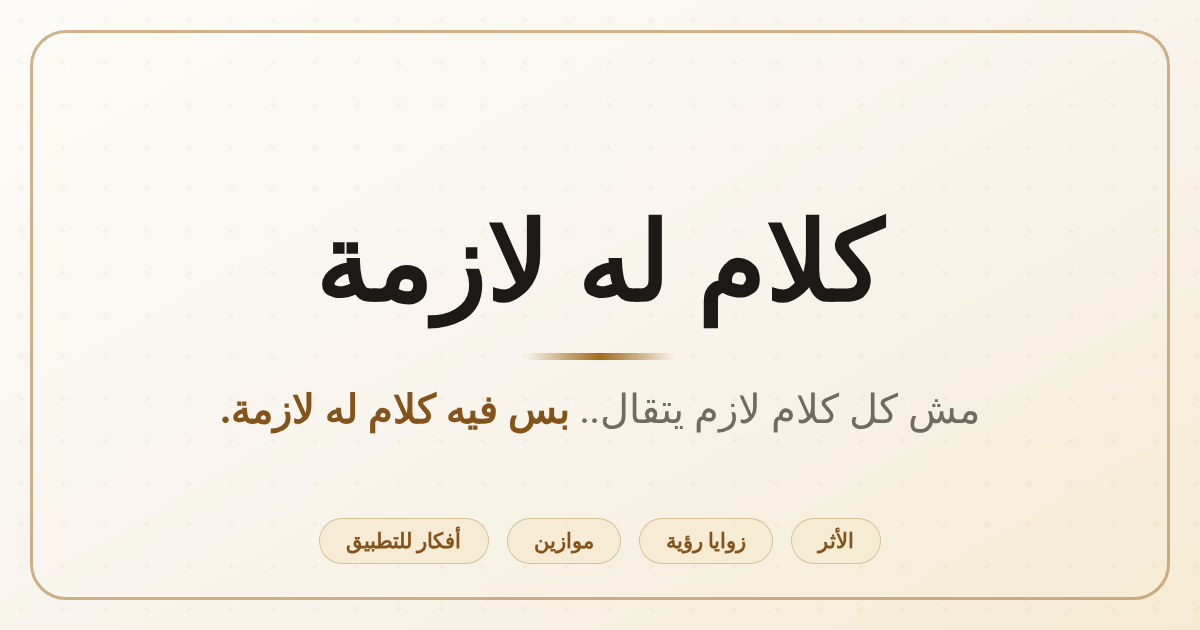
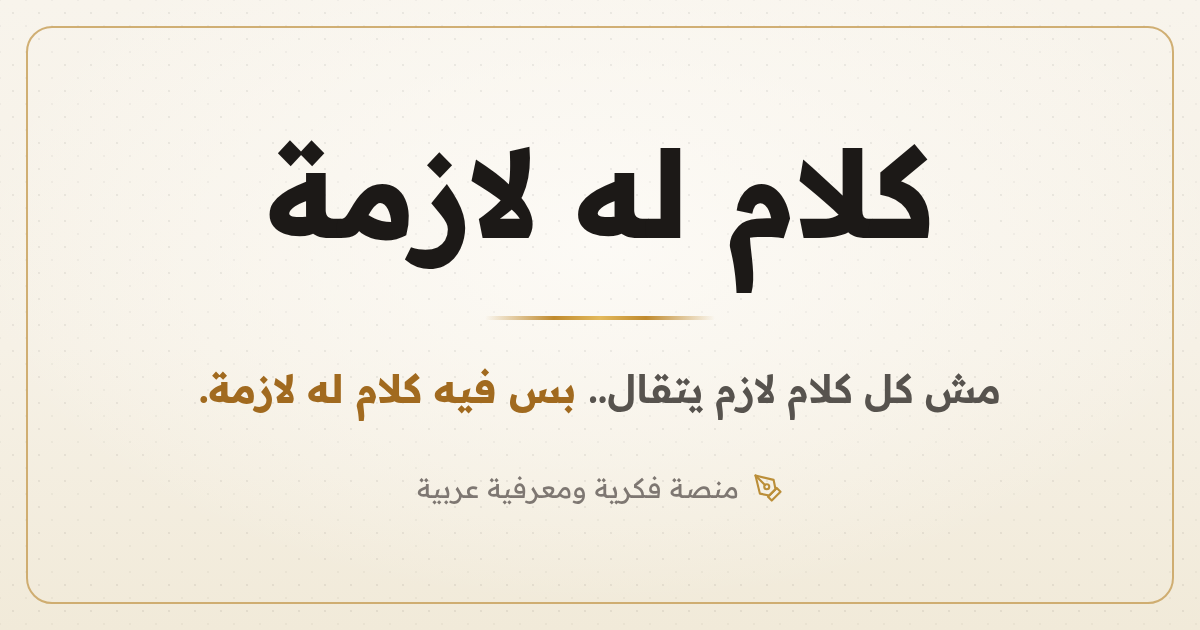
feat(og): تجديد صورة معاينة الروابط og-default — إزالة كبسولات الأقسام الأربعة القديمة نهائيًا (الأثر وزوايا رؤية وموازين وأفكار للتطبيق) لأن الأقسام تتغير وتزيد باستمرار — التصميم الجديد 1200×630 بهوية الورق الدافئ نفسها: خلفية paper-100 بنقشة ماسية خفيفة وتوهج مركزي، إطار ذهبي مدور، العنوان الرئيس

diff --git a/src/app/layout.tsx b/src/app/layout.tsx
@@ -78,13 +78,14 @@ export async function generateMetadata(): Promise<Metadata> {
       siteName: "كلام له لازمة",
       title,
       description: desc,
-      images: [{ url: "/og-default.png", width: 1200, height: 630 }],
+      /* ?v=2 يكسر كاش تطبيقات المحادثات (واتساب/تليجرام) عند تحديث الصورة */
+      images: [{ url: "/og-default.png?v=2", width: 1200, height: 630 }],
     },
     twitter: {
       card: "summary_large_image",
       title,
       description: desc,
-      images: ["/og-default.png"],
+      images: ["/og-default.png?v=2"],
     },
     icons: {
       icon: "/icons/icon-192.png",
